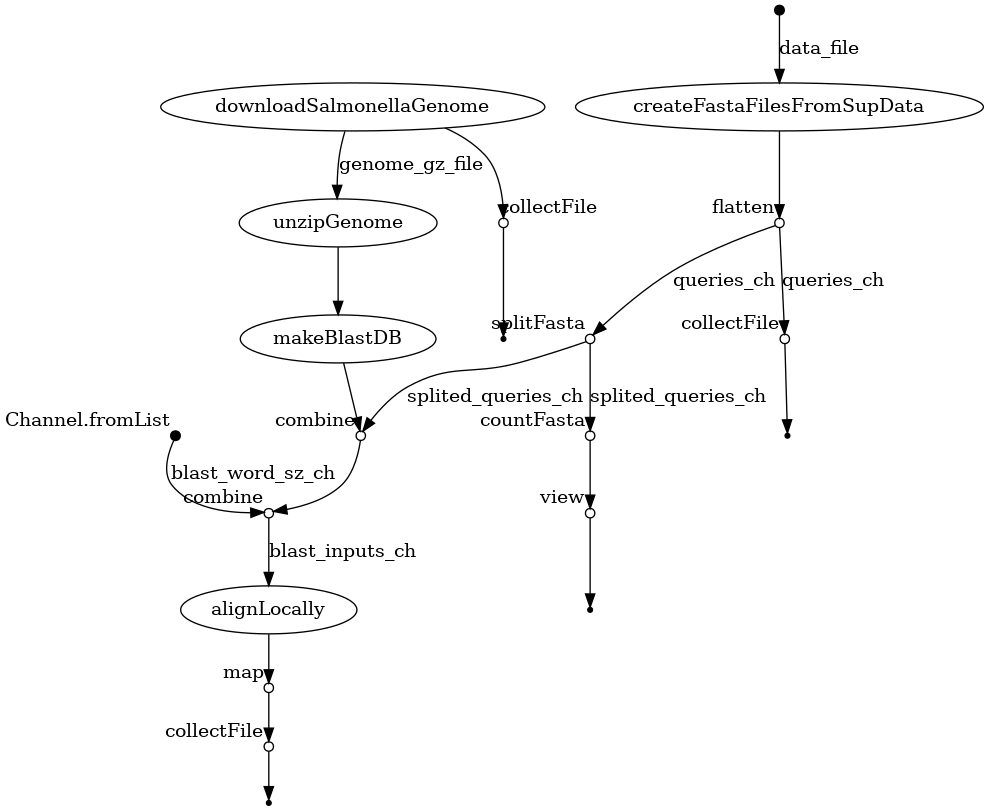
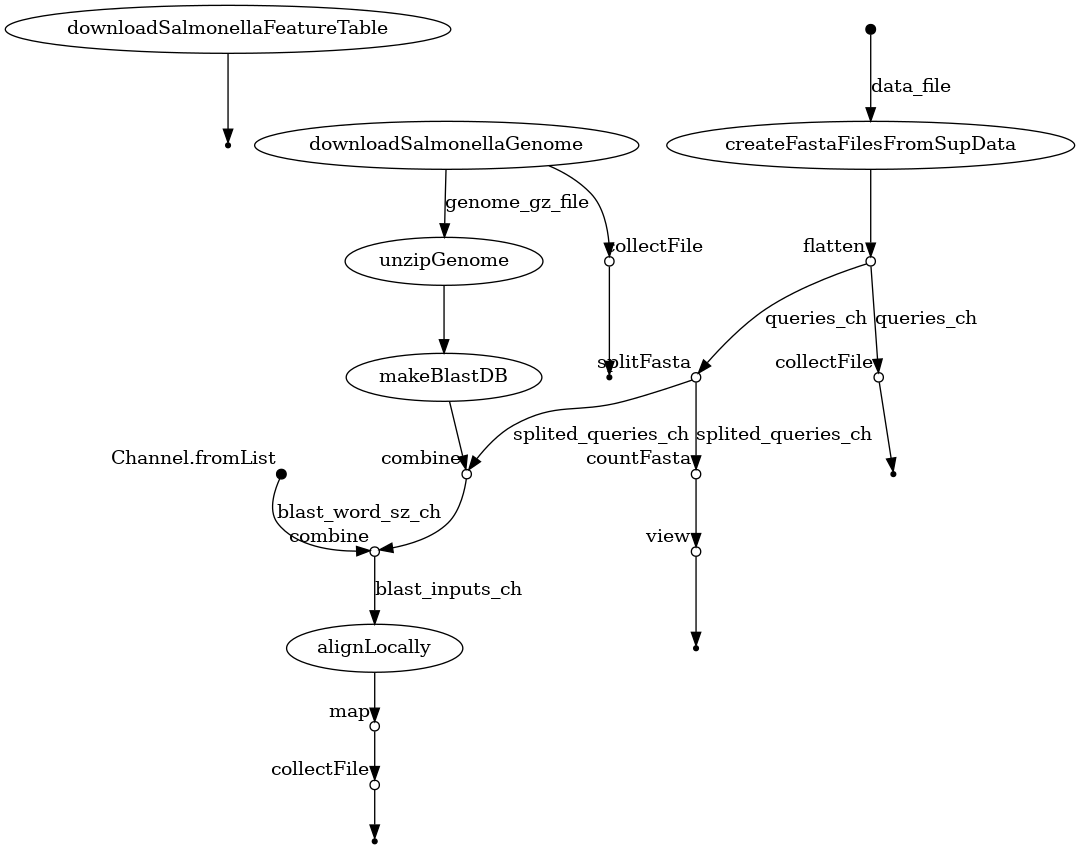
New ref genome used

diff --git a/README.md b/README.md
@@ -36,10 +36,14 @@ nextflow run -resume nf-core/fetchngs \
    --outdir ./data
 ```
 
-#### Suplementaru Data
+#### Supplementary Data
 
 https://www.nature.com/articles/s41467-023-43632-1#additional-information
 
+
+### Salmonella Ref Gene
+
+https://www.ncbi.nlm.nih.gov/datasets/genome/GCF_000210855.2/
 
 ## References
 
